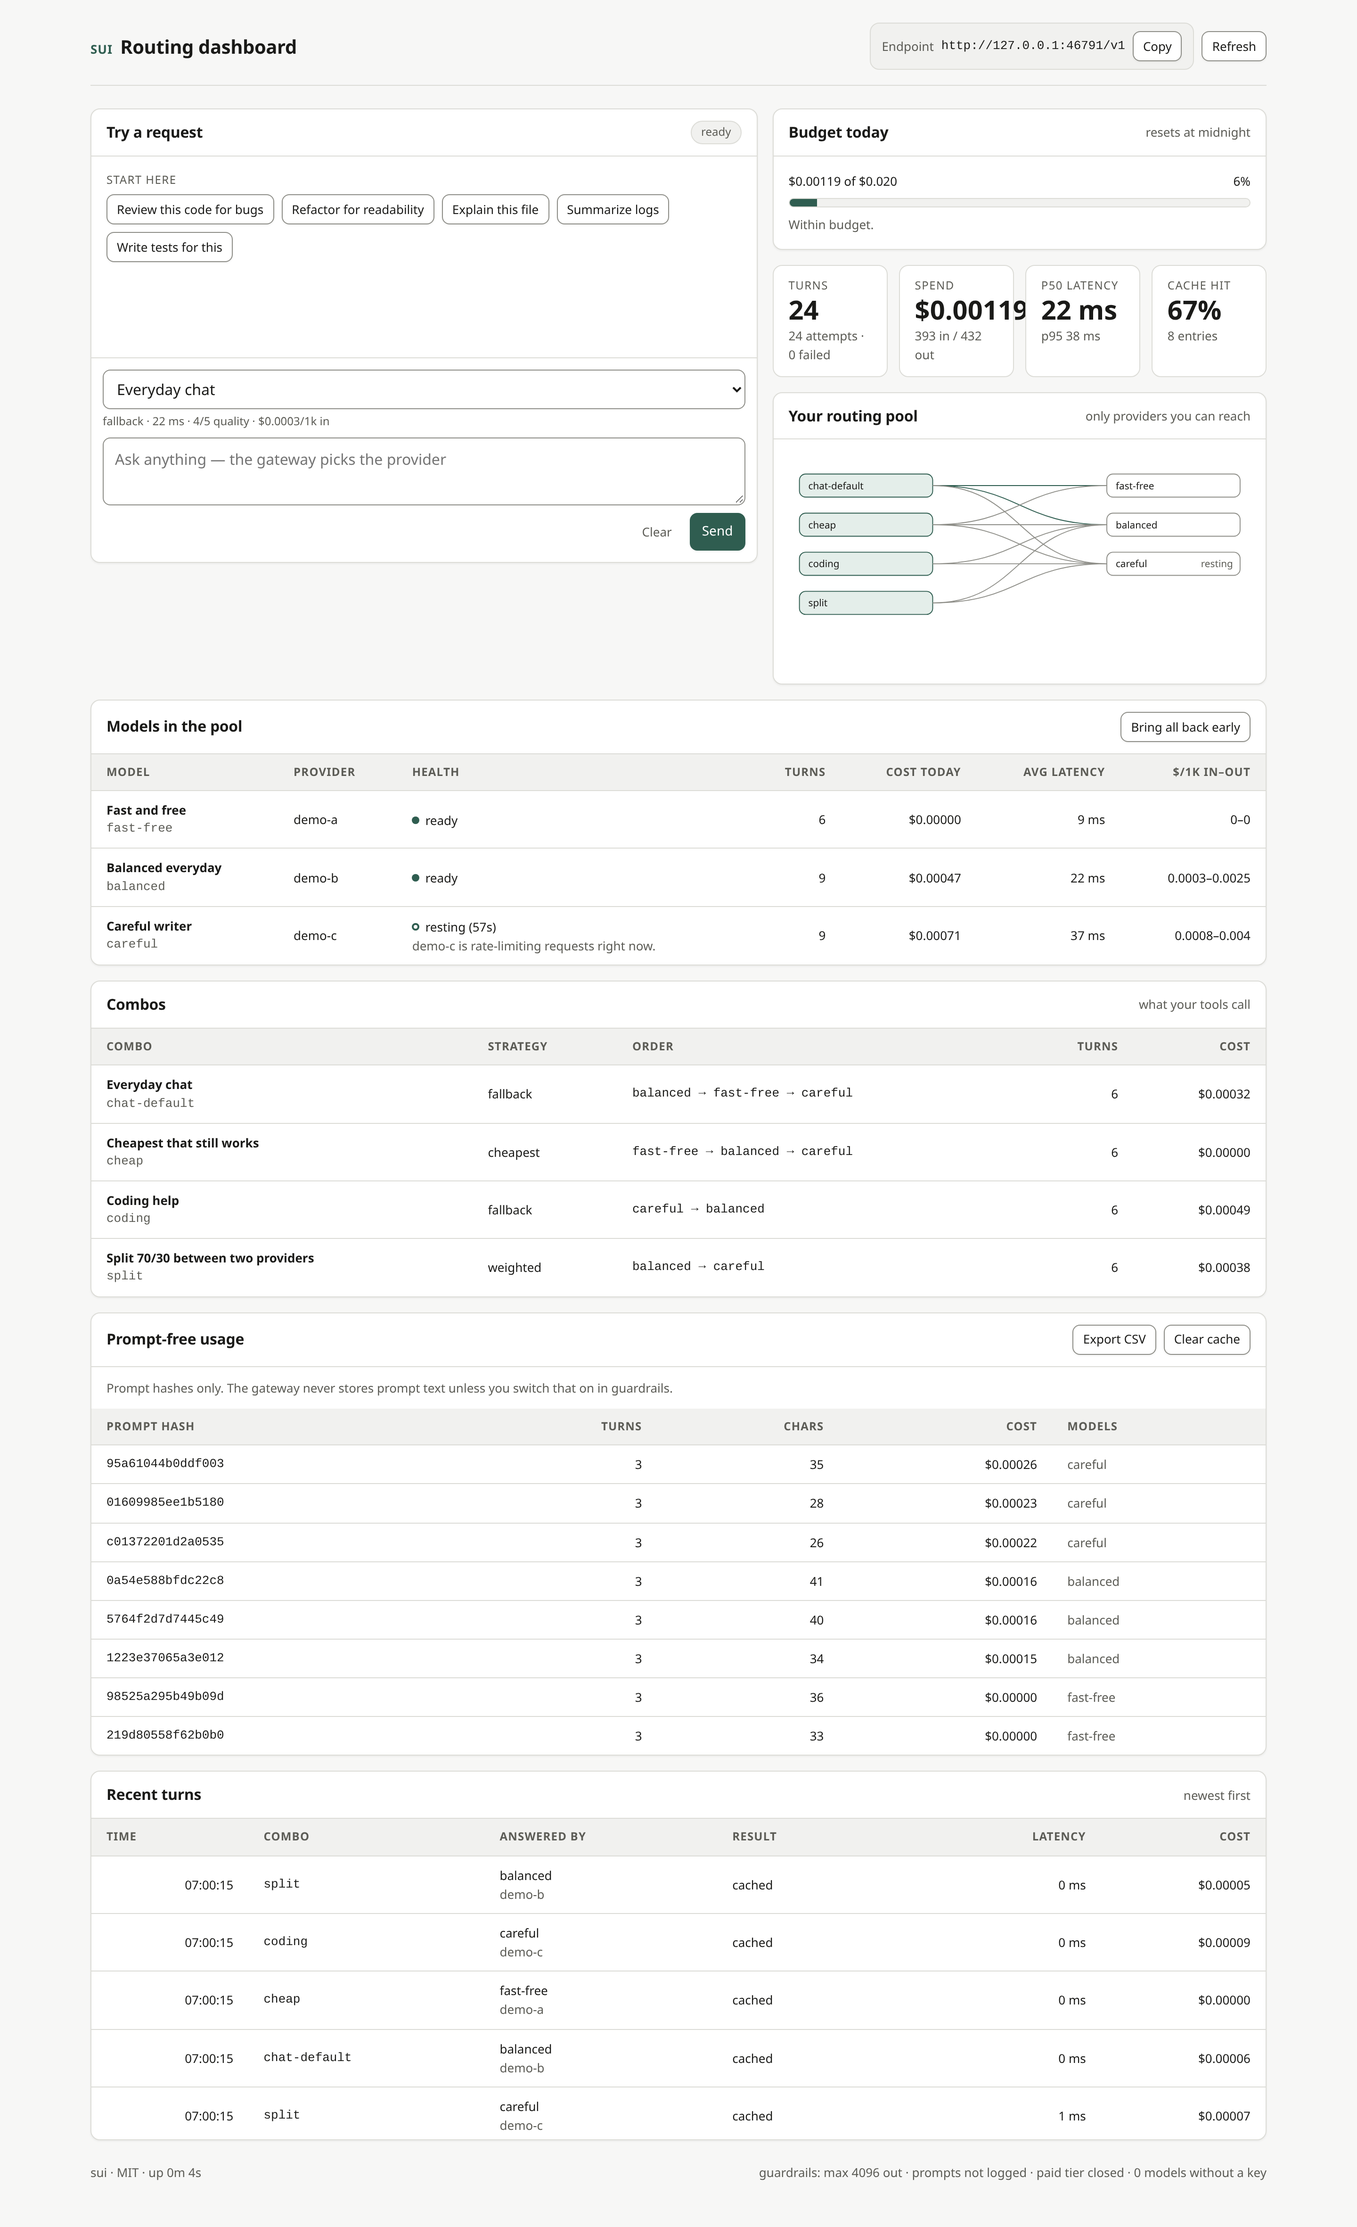
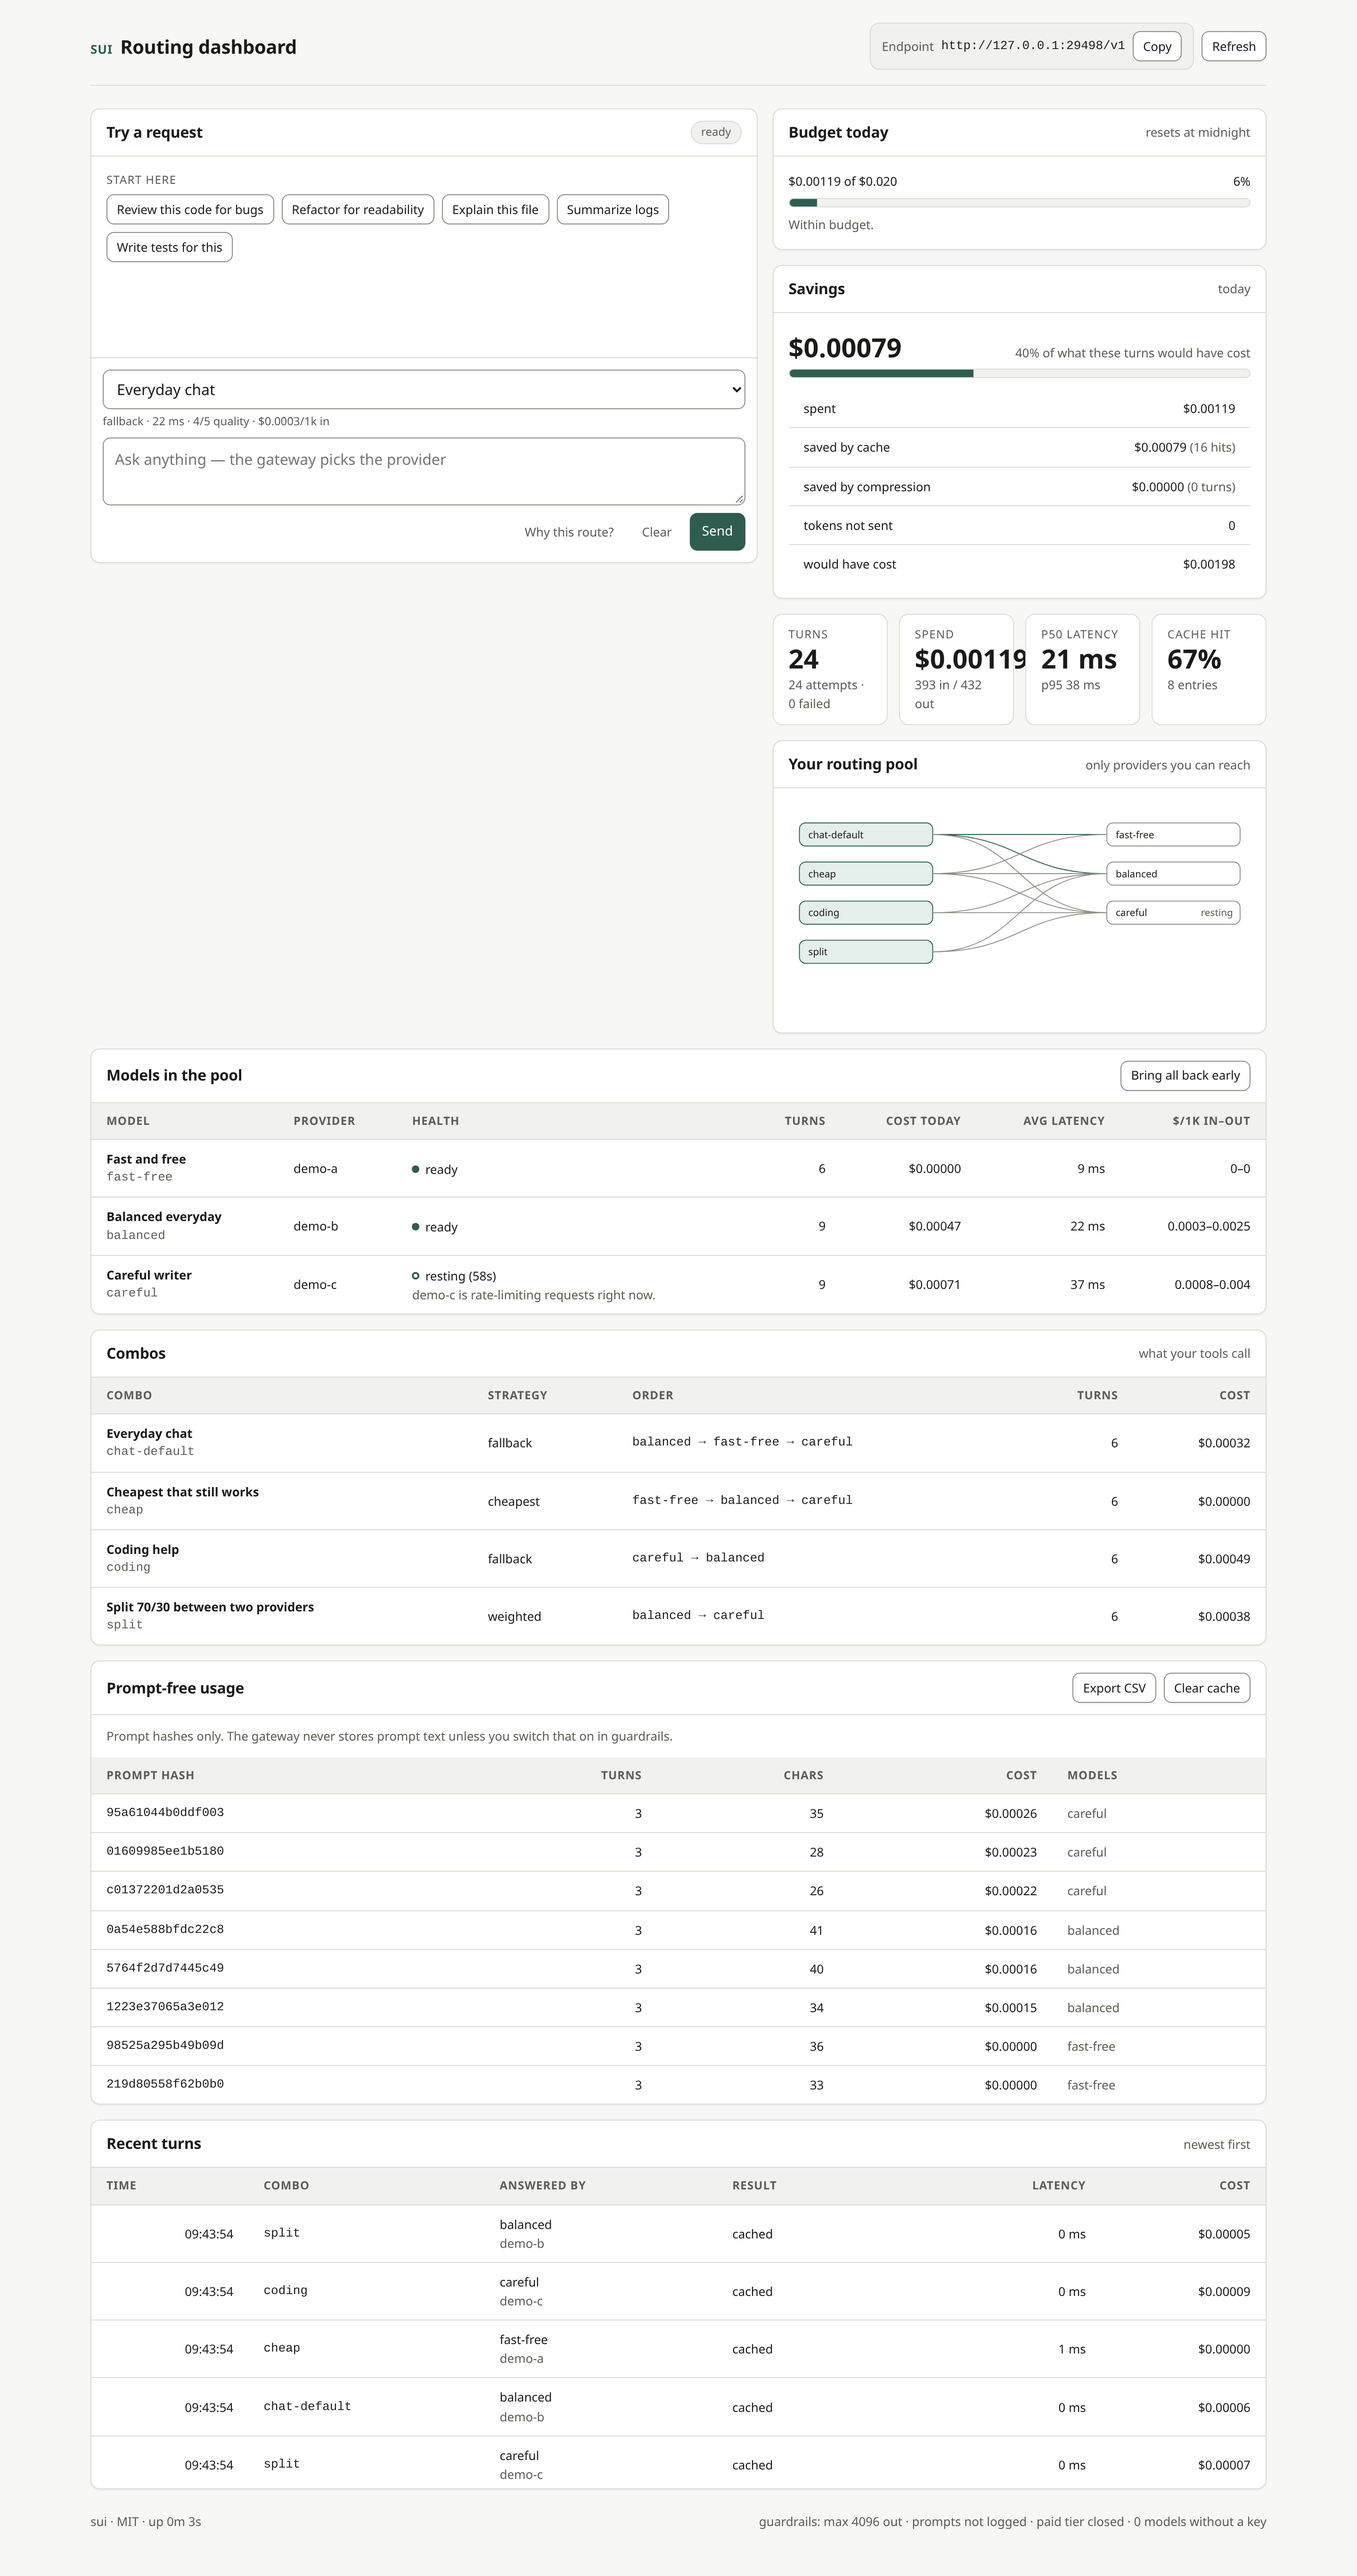
feat(ui): B10.2 savings panel and explain-my-route in the playground
- Savings card: spent, saved by cache, saved by compression, tokens not sent,
  would-have-cost, and the share avoided as a bar. Rendered from the metrics
  already in /api/status — no extra request.
- 'Why this route?' in the playground fetches /api/explain for the selected
  combo, expands a panel, and says plainly that nothing was sent.
- dropped the duplicate 'saved' KPI: the panel owns that number, and a fifth
  card wrapped the strip into an ugly second row.

230 tests, audit 8/8, eval 56/56, soak p95 0.98ms against the 15ms budget.

diff --git a/apps/dashboard/web/dashboard.html b/apps/dashboard/web/dashboard.html
@@ -266,9 +266,15 @@
             <textarea id="prompt" placeholder="Ask anything — the gateway picks the provider"></textarea>
           </div>
           <div class="row" style="justify-content: flex-end">
+            <button class="ghost small" id="explain-route" type="button" aria-expanded="false" aria-controls="explain-panel">Why this route?</button>
             <button class="ghost small" id="clear" type="button">Clear</button>
             <button class="primary" id="send" type="button">Send</button>
           </div>
+        </div>
+        <div id="explain-panel" hidden style="border-top: 1px solid var(--line); padding: var(--space-3) var(--space-4)">
+          <div class="who" style="font-size: var(--fs-12); text-transform: uppercase; letter-spacing: 0.06em; color: var(--text-dim); margin-bottom: var(--space-2)">Route explanation</div>
+          <ul id="explain-lines" style="margin: 0; padding-left: 1.1rem; font-size: var(--fs-13)"></ul>
+          <p class="hint" style="margin-top: var(--space-2)">Computed from your config and the ledger. Nothing was sent.</p>
         </div>
       </div>
     </section>
@@ -280,6 +286,14 @@
         <header><h2 id="budget-h">Budget today</h2><span class="hint" id="budget-note"></span></header>
         <div class="body budget" id="budget">
           <div class="skeleton block" style="height: 46px"></div>
+        </div>
+      </section>
+
+      <section class="card" aria-labelledby="savings-h">
+        <header><h2 id="savings-h">Savings</h2><span class="hint" id="savings-note">today</span></header>
+        <div class="body" id="savings">
+          <div class="skeleton line" style="width: 70%"></div>
+          <div class="skeleton line" style="width: 50%"></div>
         </div>
       </section>
 
@@ -444,6 +458,7 @@ function render() {
   renderKpis(metrics.totals, cache);
   renderPool(pool);
   renderCombos(combos);
+  renderSavings(metrics.totals);
   renderProbes(state.probes ?? []);
   renderTraces(promptUsage);
   renderRecent(metrics.recent);
@@ -476,7 +491,7 @@ function renderKpis(totals, cache) {
     ['spend', money(totals.costUsd), `${num(totals.promptTokens)} in / ${num(totals.completionTokens)} out`],
     ['p50 latency', ms(totals.p50LatencyMs), `p95 ${ms(totals.p95LatencyMs)}`],
     ['cache hit', `${Math.round(cache.hitRate * 100)}%`, `${cache.entries} entries`],
-    ['saved', money(totals.savings?.totalUsd ?? 0), `${num(totals.savings?.tokensSaved ?? 0)} tokens not sent`],
+
   ].map(([label, value, foot]) => `
     <div class="kpi"><div class="label">${label}</div><div class="value">${value}</div><div class="foot">${foot}</div></div>`).join('');
 }
@@ -510,6 +525,33 @@ function renderCombos(combos) {
       <td class="num">${num(c.turnsToday)}</td>
       <td class="num">${money(c.costToday)}</td>
     </tr>`).join('');
+}
+
+function renderSavings(totals) {
+  const el = $('#savings');
+  if (!el) return;
+  const s = totals.savings ?? { cacheUsd: 0, compressionUsd: 0, totalUsd: 0, tokensSaved: 0, cacheHits: 0, compressedTurns: 0 };
+  const spent = totals.costUsd ?? 0;
+  const wouldHaveCost = spent + s.totalUsd;
+  const share = wouldHaveCost ? Math.round((s.totalUsd / wouldHaveCost) * 100) : null;
+
+  el.innerHTML = `
+    <div class="row" style="display:flex;justify-content:space-between;align-items:baseline;gap:var(--space-3)">
+      <span class="num" style="font-size: var(--fs-28); font-weight: 600">${money(s.totalUsd)}</span>
+      <span class="hint">${share == null ? 'nothing spent yet' : `${share}% of what these turns would have cost`}</span>
+    </div>
+    <div class="track" role="img" aria-label="Share of cost avoided: ${share ?? 0} percent">
+      <div class="fill" style="width: ${share ?? 0}%"></div>
+    </div>
+    <table style="margin-top: var(--space-3)">
+      <tbody>
+        <tr><td>spent</td><td class="num">${money(spent)}</td></tr>
+        <tr><td>saved by cache</td><td class="num">${money(s.cacheUsd)} <span class="hint">(${s.cacheHits} hit${s.cacheHits === 1 ? '' : 's'})</span></td></tr>
+        <tr><td>saved by compression</td><td class="num">${money(s.compressionUsd)} <span class="hint">(${s.compressedTurns} turn${s.compressedTurns === 1 ? '' : 's'})</span></td></tr>
+        <tr><td>tokens not sent</td><td class="num">${num(s.tokensSaved)}</td></tr>
+        <tr><td>would have cost</td><td class="num">${money(wouldHaveCost)}</td></tr>
+      </tbody>
+    </table>`;
 }
 
 function renderProbes(probes) {
@@ -788,6 +830,28 @@ $('#copy-endpoint').addEventListener('click', async () => {
     toast('Endpoint copied');
   } catch {
     toast('Copy failed — select the address manually');
+  }
+});
+$('#explain-route').addEventListener('click', async () => {
+  const panel = $('#explain-panel');
+  const button = $('#explain-route');
+  if (!panel.hidden) {
+    panel.hidden = true;
+    button.setAttribute('aria-expanded', 'false');
+    return;
+  }
+  button.setAttribute('aria-expanded', 'true');
+  const list = $('#explain-lines');
+  list.innerHTML = '<li class="hint">Working it out…</li>';
+  panel.hidden = false;
+  try {
+    const res = await fetch(`/api/explain?combo=${encodeURIComponent(selectedCombo ?? '')}`);
+    const json = await res.json();
+    list.innerHTML = (json.lines ?? [json.error?.message ?? 'No explanation available.'])
+      .map((line) => `<li>${escapeHtml(line)}</li>`)
+      .join('');
+  } catch {
+    list.innerHTML = '<li>Could not reach the gateway.</li>';
   }
 });
 $('#export-csv').addEventListener('click', () => { window.location.href = '/api/metrics.csv'; });

diff --git a/docs/index.html b/docs/index.html
@@ -110,7 +110,7 @@
   </div>
 
   <div class="strip">
-    <div class="stat"><div class="k">tests</div><div class="v num">228</div><div class="f">no network, no keys</div></div>
+    <div class="stat"><div class="k">tests</div><div class="v num">230</div><div class="f">no network, no keys</div></div>
     <div class="stat"><div class="k">p95 overhead</div><div class="v num">1.13<span style="font-size:var(--fs-16)"> ms</span></div><div class="f">budget 15 ms</div></div>
     <div class="stat"><div class="k">invariants</div><div class="v num">15</div><div class="f">each with a test</div></div>
     <div class="stat"><div class="k">verified routes</div><div class="v num">0</div><div class="f">26 await a probe</div></div>
@@ -199,6 +199,7 @@ node apps/cli/bin/sui.js init</code></pre>
         <tr><td>Audit + legal docs</td><td><span class="pill done">done</span></td><td>8 checks in CI, PRIVACY, TERMS</td></tr>
         <tr><td>MCP / A2A / agents</td><td><span class="pill">not started</span></td><td>Phase 5</td></tr>
         <tr><td>Verification + explain-my-route</td><td><span class="pill done">done</span></td><td>7 signals, /api/explain</td></tr>
+        <tr><td>Savings + explain panels</td><td><span class="pill done">done</span></td><td>dashboard, /api/savings</td></tr>
         <tr><td>Weather Map</td><td><span class="pill">not started</span></td><td>Phase 10</td></tr>
       </tbody>
     </table>

diff --git a/test/dashboard.test.js b/test/dashboard.test.js
@@ -69,6 +69,21 @@ test('the Probes table exists and stays hidden until there is probe state', () =
   assert.match(html, /liveness · readiness · suitability/);
 });
 
+test('the savings panel reports what was avoided, not just what was spent', () => {
+  assert.match(html, /id="savings"/);
+  assert.match(html, /saved by cache/);
+  assert.match(html, /saved by compression/);
+  assert.match(html, /tokens not sent/);
+  assert.match(html, /would have cost/);
+});
+
+test('explain-my-route is reachable from the playground and says nothing was sent', () => {
+  assert.match(html, /id="explain-route"/);
+  assert.match(html, /id="explain-panel"/);
+  assert.match(html, /aria-controls="explain-panel"/);
+  assert.match(html, /Nothing was sent/);
+});
+
 test('the model selector shows speed, quality and cost, and locks what cannot answer', () => {
   assert.match(html, /quality/);
   assert.match(html, /cost/);

diff --git a/README.md b/README.md
@@ -45,7 +45,7 @@ Fifteen invariants, kept as data in `packages/core/src/invariants.js` — each w
 - **Explain my route** — every response carries the strategy and each target's outcome; `sui explain` narrates it without sending anything.
 - **Savings ledger** — cache and compression savings counted separately, valued at the model's price, with the share of cost avoided.
 - **Ledger** — one record per attempt: tokens, cost, latency, time to first token, cache, verification, prompt hash. CSV export.
-- **Dashboard** — token-based design system, budget bar, routing-pool topology, breaker states, prompt-free usage, recent turns, and a playground whose loading state is the first streamed token.
+- **Dashboard** — token-based design system, budget bar, savings panel, routing-pool topology, breaker states, probes, prompt-free usage, recent turns, and a playground whose loading state is the first streamed token, with "Why this route?" on demand.
 - **Paid vault** — AES-256-GCM sealed credentials (`crypto-kit`), opened only when `paid_tiers.enabled` is true.
 - **Background workers** — prober and cache sweep run off the request path, with `/api/workers` and a Probes table on the dashboard.
 - **Catalogue + canary prober** — 26 entries, every one an unverified identity until a probe says otherwise; `sui probe` checks liveness, readiness and suitability (streaming, JSON, tools) with versioned synthetic fixtures, disables a route after three failures and re-enables it on recovery.

diff --git a/ROADMAP.md b/ROADMAP.md
@@ -129,7 +129,9 @@ All todo. `ai-bridge` (MCP-shaped tool plumbing, adapters) is the intended refer
 
 **B9.1 worker scheduler — done**: `apps/gateway/src/workers.js` runs the prober (hourly) and a cache sweep, off the request path, with a delayed kickoff so startup never waits on the network, `stop()` that clears every timer, `/api/workers` for state and a Probes table on the dashboard. Workers are opt-in for programmatic gateways and on for `sui start` (`--no-workers` to disable). 7 tests.
 
-Still todo in Phases 9–11: canary + SLO rollback, fallback learning, quota reset detection, token refresh; Weather Map UI, Savings Ledger UI, explain-my-route UI, eval reports UI; seven tutorials, four quickstarts, ADRs (seven written so far).
+**B10.2 Savings panel and B7.4 explain panel — done** (dashboard): the Savings card shows spent, saved by cache, saved by compression, tokens not sent, the would-have-cost total and the share avoided as a bar; "Why this route?" in the playground fetches `/api/explain` and lists the decision, noting that nothing was sent.
+
+Still todo in Phases 9–11: canary + SLO rollback, fallback learning, quota reset detection, token refresh; Weather Map, compression view, eval reports UI; seven tutorials (the four quickstarts are done); ADRs (seven written).
 
 ---
 
